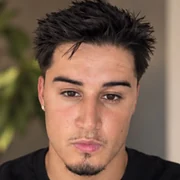
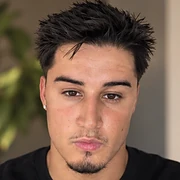
Sube fotos de Juan Carlos en mayor calidad

diff --git a/static-site/index.html b/static-site/index.html
@@ -1008,7 +1008,7 @@
 
       <figure class="hero-media">
         <div class="hero-photo">
-          <img src="juan-carlos-trabajando.webp" width="456" height="430" fetchpriority="high" decoding="async"
+          <img src="juan-carlos-trabajando.webp" width="601" height="571" fetchpriority="high" decoding="async"
                alt="Juan Carlos, fundador de SurCalls, trabajando con su portátil en una oficina luminosa">
           <figcaption class="name-tag">
             <span class="dot"><svg viewBox="0 0 24 24" fill="none" aria-hidden="true"><path d="M12 12a4 4 0 1 0 0-8 4 4 0 0 0 0 8ZM4.5 20a7.5 7.5 0 0 1 15 0" stroke="currentColor" stroke-width="2" stroke-linecap="round"/></svg></span>
@@ -1310,7 +1310,7 @@
     <div class="wrap founder">
       <figure class="founder-photo reveal">
         <div class="frame">
-          <img src="juan-carlos-fundador.webp" width="344" height="431" loading="lazy" decoding="async"
+          <img src="juan-carlos-fundador.webp" width="456" height="571" loading="lazy" decoding="async"
                alt="Retrato de Juan Carlos, fundador de SurCalls">
         </div>
         <figcaption><span><strong>Juan Carlos</strong><span>Fundador de SurCalls</span></span></figcaption>
@@ -1419,7 +1419,7 @@
   <!-- ============================ BANNER PERSONAL ============================ -->
   <section class="banner-cta" aria-labelledby="banner-title">
     <div class="banner-photo" aria-hidden="true">
-      <img src="juan-carlos-ciudad.webp" width="907" height="378" loading="lazy" decoding="async" alt="">
+      <img src="juan-carlos-ciudad.webp" width="1067" height="440" loading="lazy" decoding="async" alt="">
     </div>
     <div class="wrap banner-content reveal">
       <span class="banner-eyebrow">Detrás de cada automatización</span>
